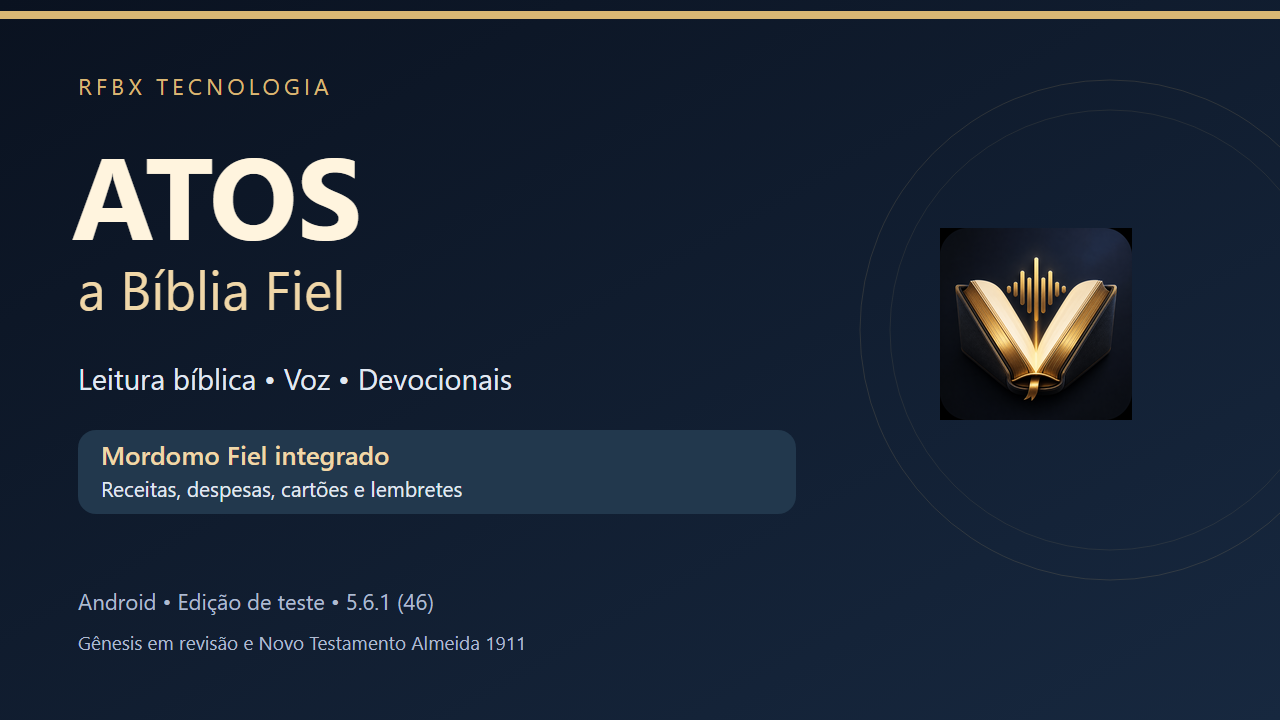
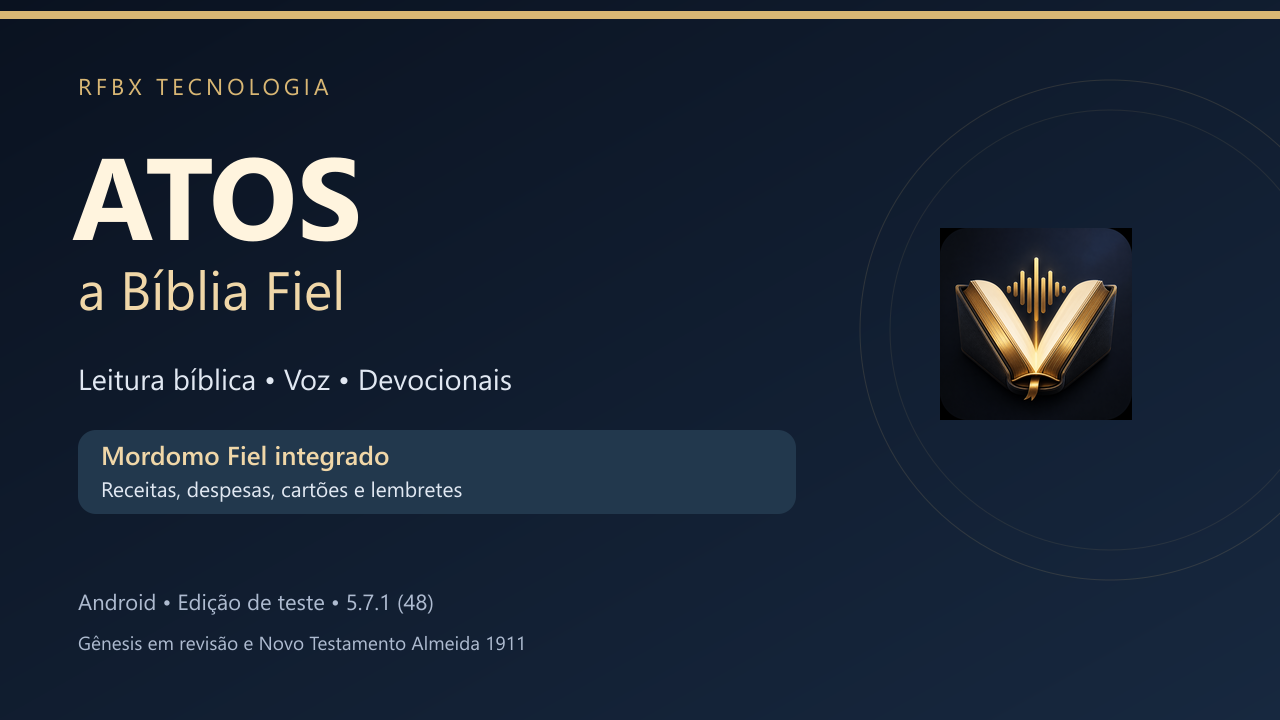
Prepara distribuicao gratuita do ATOS v48 em teste

diff --git a/README.md b/README.md
@@ -4,13 +4,19 @@ Aplicativo Android independente desenvolvido pela **RFBX Tecnologia**, com **Mor
 
 ## Download gratuito — edição de teste
 
-[Baixar ATOS 5.6.1 (46)](https://github.com/robsonferreira09-tech/ATOS-Biblia-Fiel/releases/download/v5.6.1-46-teste/ATOS_Instalacao_5.6.1_v46.zip)
+[Baixar ATOS 5.7.1 (48)](https://github.com/robsonferreira09-tech/ATOS-Biblia-Fiel/releases/download/v5.7.1-48-teste/ATOS_Instalacao_5.7.1_v48.zip)
 
-Android 6.0 ou superior. ZIP: 70,76 MB; APK após extração: 105,07 MB. Reserve espaço adicional para instalar.
+Android 6.0 ou superior. ZIP: 71,71 MB; APK após extração: 96,70 MB. Reserve espaço adicional para instalar. [Instruções da v48](INSTALACAO_v48.md).
 
 Esta é uma **edição de teste em revisão**, não uma versão final. Contém Gênesis próprio em revisão e os 27 livros do Novo Testamento Almeida 1911. Os demais livros do Antigo Testamento não estão disponíveis nesta edição.
 
 Leitura, voz, devocionais e notas pessoais. O Mordomo Fiel organiza receitas, despesas, cartões e compromissos no mesmo aplicativo. Voz e avisos dependem dos serviços e permissões do aparelho. O financeiro usa registros locais, não representa conexão bancária nem confirmação de saldo oficial.
+
+## Novidades da v48
+
+Resumo com pagos e recebidos no mês, filtros por conta e extrato com saldo anterior e fechamento diário. O saldo acumulado considera todo o histórico realizado da conta escolhida. Nenhum valor é ajustado automaticamente.
+
+Os relatórios da entrega registram 78 testes financeiros aprovados, zero erros no Android Lint e 18 verificações do leitor. A instalação física e as novas telas não foram homologadas neste processo de distribuição.
 
 ## Instalar ou atualizar
 
@@ -18,7 +24,7 @@ Leitura, voz, devocionais e notas pessoais. O Mordomo Fiel organiza receitas, de
 2. Se já utiliza o ATOS, faça backup financeiro no aplicativo e preserve suas anotações. O backup financeiro não inclui automaticamente os dados da Bíblia.
 3. Abra o APK e confirme a instalação ou atualização no Android. **Não desinstale nem limpe os dados para atualizar.**
 4. O Android pode solicitar autorização para instalar pela origem escolhida. Se o Android ou Play Protect bloquear o arquivo, procure o suporte; **não desative as proteções do aparelho**.
-5. Confira a versão 5.6.1-revisão (46). O pacote continua com.rfb.verbo, com a assinatura de teste preservada.
+5. Confira a versão 5.7.1-revisão (48). O pacote continua com.rfb.verbo, com a assinatura de teste preservada. O banco financeiro permanece na versão 6, sem mudança de estrutura nesta entrega.
 
 No cadastro inicial, o código de demonstração aparece na própria tela. Não é enviado por SMS e não verifica a titularidade do telefone. Não existe senha padrão nem login empresarial nesta edição.
 
@@ -31,10 +37,12 @@ O APK de revisão mantém sua assinatura de depuração anterior. Esta distribui
 ## Conferência
 
 SHA-256 do ZIP:
[2 lines of base64/hex data omitted]
 
 SHA-256 do APK:
[2 lines of base64/hex data omitted]
+
+A [v46 permanece disponível no histórico](https://github.com/robsonferreira09-tech/ATOS-Biblia-Fiel/releases/tag/v5.6.1-46-teste). Não use uma versão antiga para substituir uma instalação nova sem orientação técnica.
 
 Suporte RFBX Tecnologia: [(73) 98825-1299](https://wa.me/5573988251299).
 

diff --git a/INSTALACAO_v48.md b/INSTALACAO_v48.md
@@ -1,0 +1,37 @@
+# ATOS 5.7.1-revisão (48) — Instalação e atualização
+
+Aplicativo Android da RFBX Tecnologia, com Mordomo Fiel integrado. Download gratuito. **Edição de teste**, não uma versão final.
+
+## Instalar
+
+1. Android 6.0 ou superior. O APK tem 96.700.068 bytes (96,70 MB); reserve espaço adicional para baixar, extrair e instalar.
+2. Extraia o ZIP e abra `Atos_Biblia_Fiel_Mordomo_Resumo_5.7.1_v48.apk`. O ZIP não é instalado diretamente.
+3. Antes de atualizar, exporte o backup financeiro pelo próprio aplicativo e preserve as anotações da Bíblia. O backup financeiro não inclui automaticamente os dados da Bíblia.
+4. Escolha **Atualizar** quando o Android apresentar essa opção. **Não desinstale nem limpe os dados para atualizar.** O pacote continua `com.rfb.verbo`, com a assinatura de teste anterior preservada.
+5. Se o Android ou Play Protect bloquear o arquivo, registre a mensagem e procure o suporte. **Não desative as proteções do aparelho.**
+6. Confira no aplicativo a versão **5.7.1-revisão (48)**. Não há atualização automática: cada nova versão precisa ser baixada e instalada com confirmação.
+
+## Novidades do Mordomo Fiel
+
+- Resumo do mês com A pagar, A receber, Pago e Recebido, com filtros por conta. Pagos e recebidos consideram a data efetiva da baixa, quando registrada.
+- Extrato por conta com saldo anterior ao período, movimentações realizadas e fechamento diário. Contas sem vínculo válido aparecem em grupo separado.
+- O saldo acumulado considera todo o histórico realizado da conta escolhida; não se limita ao mês selecionado. Transferências internas não duplicam receitas e despesas.
+
+Os valores são controles dos registros do aplicativo, não saldos confirmados diretamente pelo banco. Esta entrega não ajusta valores automaticamente. Faça conferência e backup antes de qualquer correção manual.
+
+## Limites desta edição
+
+Gênesis próprio continua como rascunho completo em revisão. Há os 27 livros do Novo Testamento Almeida 1911; os demais livros do Antigo Testamento não estão disponíveis. Não é uma tradução integral finalizada.
+
+Perfil e registros financeiros ficam no aparelho. Não há autenticação empresarial ou licenciamento remoto integrado. Eventuais funções pagas serão controladas dentro do ATOS, não pelo SmartSystem. Voz e avisos dependem dos serviços e permissões do Android.
+
+O APK é de revisão, com assinatura de teste. Os relatórios da entrega registram testes automatizados aprovados, mas não substituem teste físico das novas telas e da atualização no seu aparelho. Não foi auditado o banco pessoal do usuário.
+
+## Integridade do APK
+
+SHA-256:
[1 lines of base64/hex data omitted]
+
+O ZIP público contém somente o APK e estas instruções, sem código-fonte, bancos pessoais, relatórios internos ou chaves de assinatura.
+
+Suporte RFBX Tecnologia: [(73) 98825-1299](https://wa.me/5573988251299).
